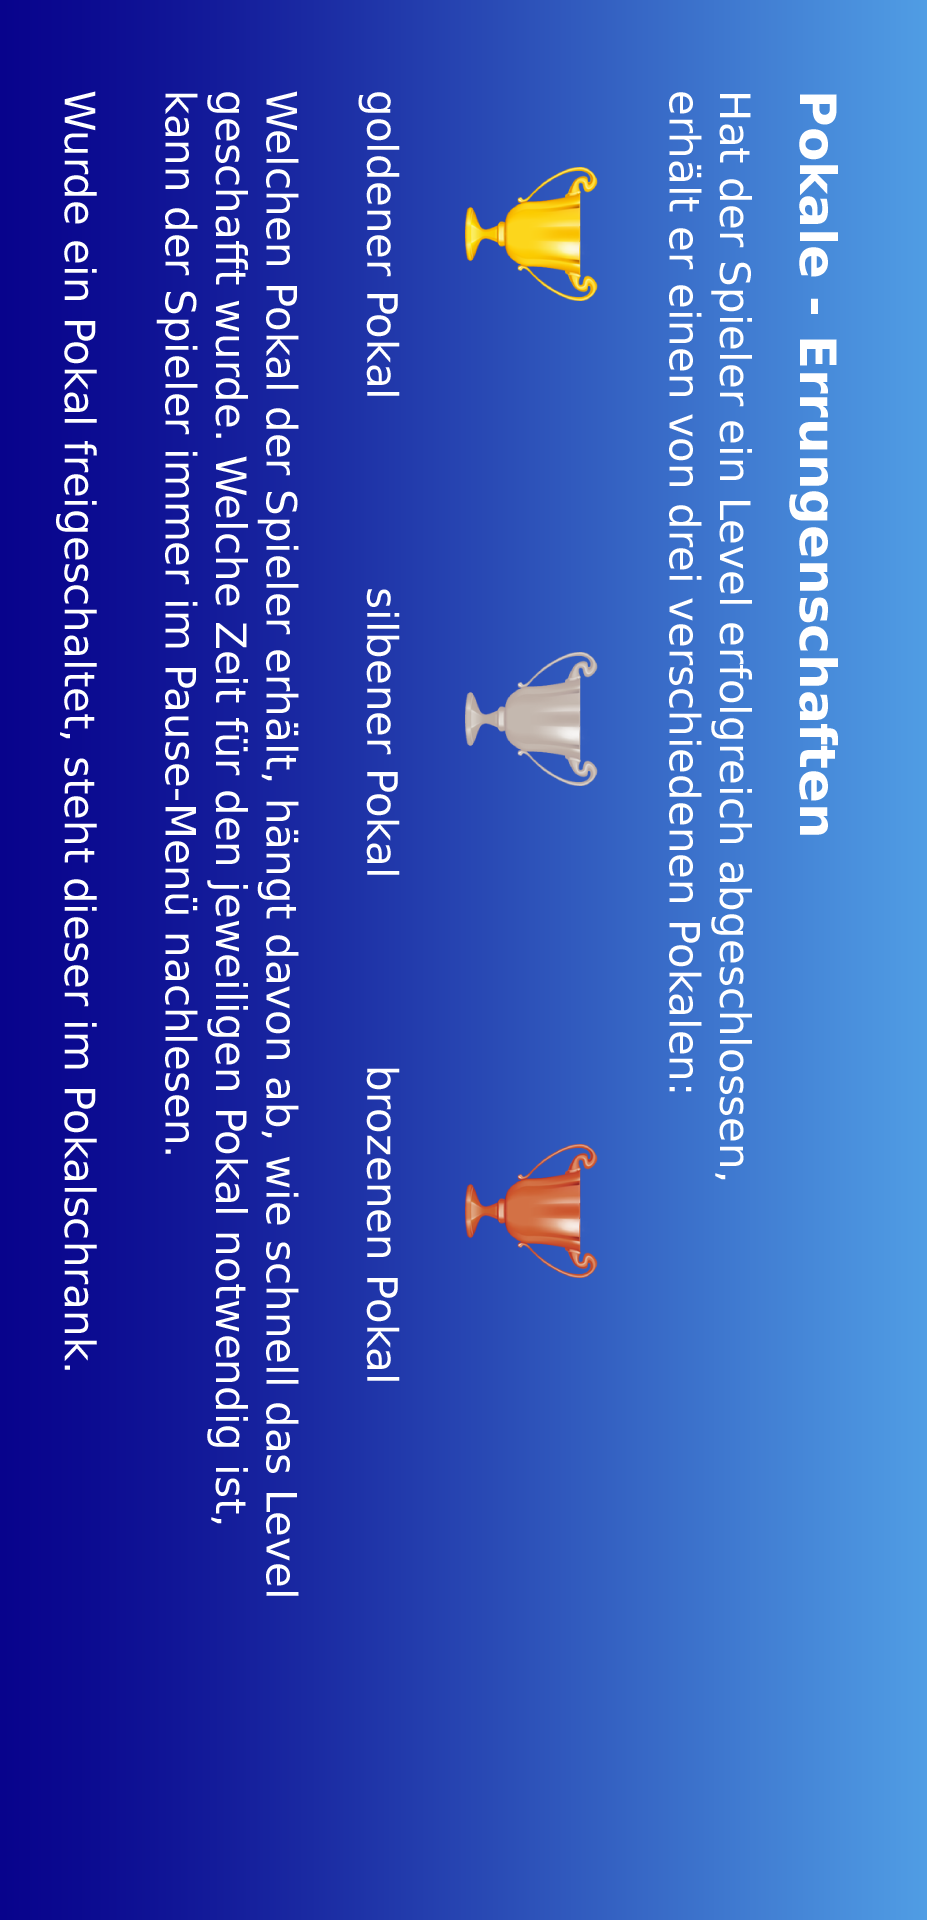
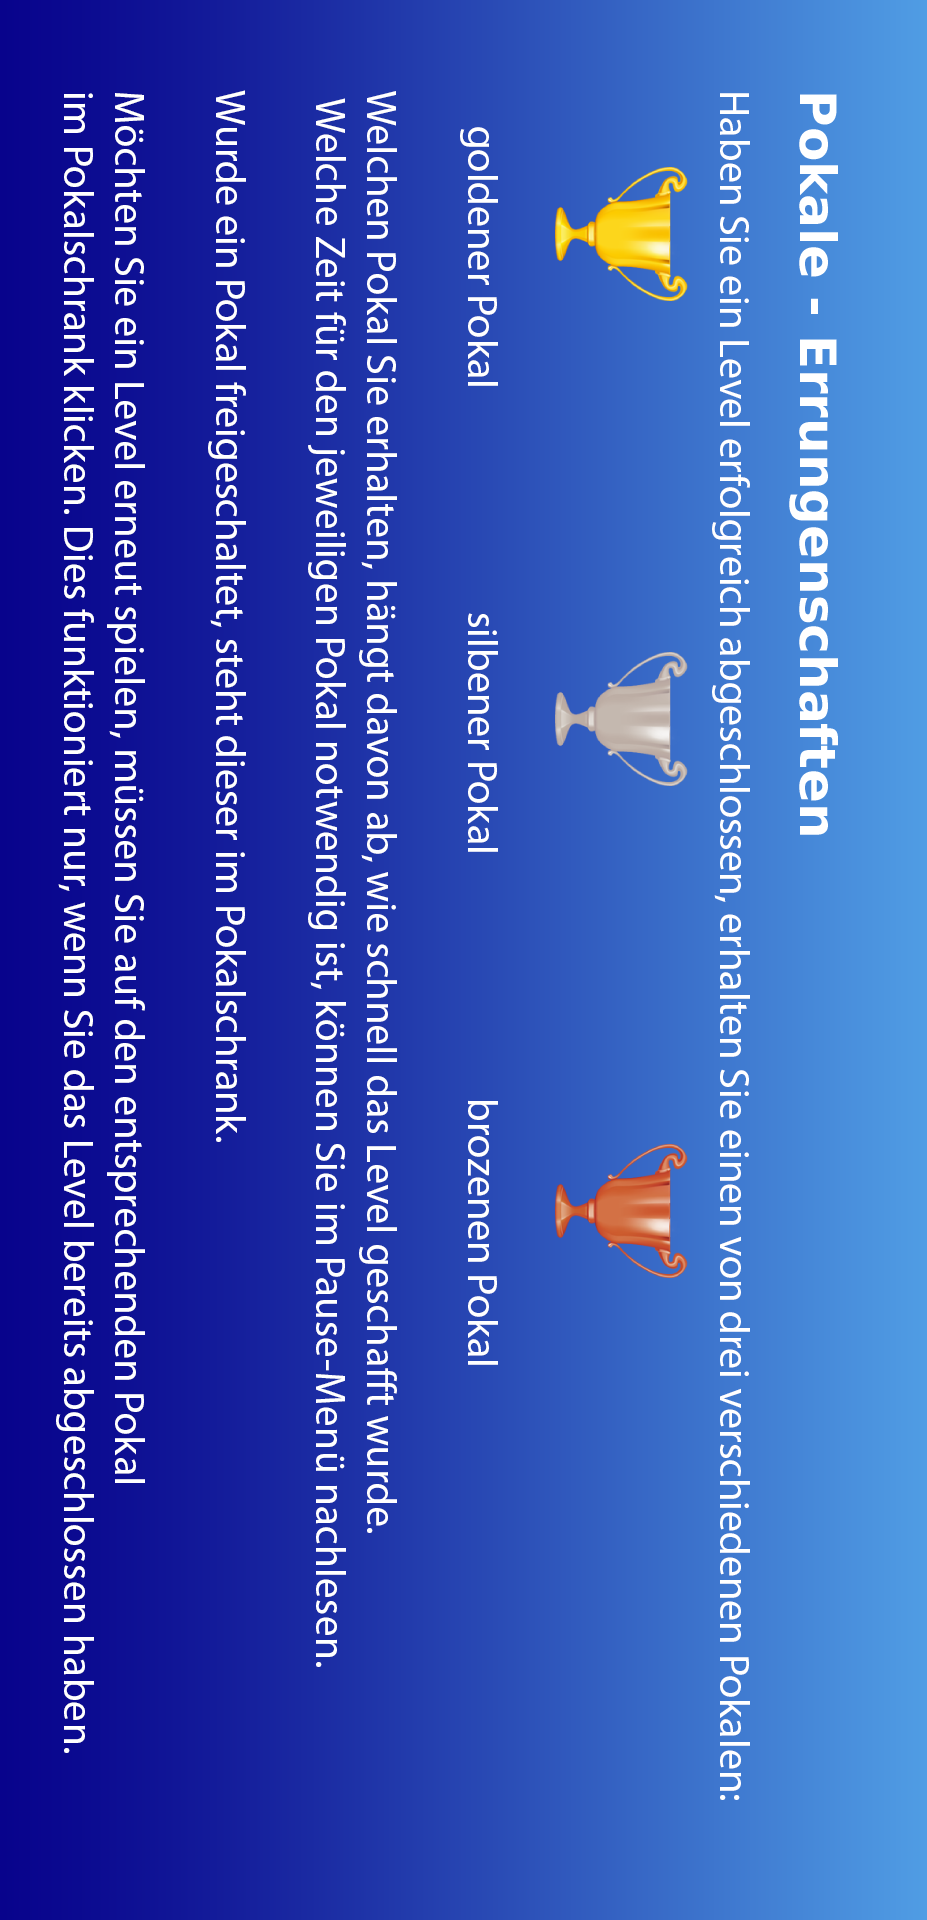
finish screen

Changed region(s): [[0.1812, 0.0312, 0.4229, 0.875], [0.4833, 0.0312, 0.8155, 0.9375], [0.0604, 0.0312, 0.151, 0.9062]]

diff --git a/Level12_hard.js b/Level12_hard.js
@@ -24,6 +24,8 @@ Game.Level12_hard.prototype = {
         //black fade
         this.camera.flash('#000000');
 
+        console.log(localStorage.getItem('finish'));
+
         //add wood for background
         this.game.add.tileSprite(0, 0, 1090, 1920, 'holz');
 
@@ -114,7 +116,7 @@ Game.Level12_hard.prototype = {
         ziel = game.add.sprite(this.game.width / 2 + 111, this.game.height - 59, 'ziel');
 		
         //add player
-        sprite = game.add.sprite(this.game.width / 2 - 59, 50, 'player');
+        sprite = game.add.sprite(this.game.width / 2 - 59, 1300, 'player');
 		sprite.inputEnabled = true;
 		sprite.input.enableDrag();
         sprite.anchor.set(0.5);
@@ -416,6 +418,21 @@ Game.Level12_hard.prototype = {
         }
         else if (this.checkOverlap(sprite, ziel))
 		{
+            if(localStorage.getItem('finish') == 0){
+                this.game.time.events.stop();
+                this.finishMessageBox(1512, 1050);
+                sprite.inputEnabled = false;
+                t++;
+
+                if (localStorage.getItem('level12_hard') === null) {
+                    //kein Highscore gespeicher
+                    localStorage.setItem('level12_hard', counter);
+                } else if (localStorage.getItem('level12_hard') > counter) {
+                    //neuer Highscore
+                    localStorage.setItem('level12_hard', counter);
+                }
+            }
+            else if (localStorage.getItem('finish') == 1){
             this.game.time.events.stop();
             this.doneMessageBox(1512, 1050);
             sprite.inputEnabled = false;
@@ -428,7 +445,9 @@ Game.Level12_hard.prototype = {
                 //neuer Highscore
                 localStorage.setItem('level12_hard', counter);
             }
+        }
 		}
+        
 		else
         {
             fail.visible = true;
@@ -534,7 +553,7 @@ Game.Level12_hard.prototype = {
         var style2 = {font:"50px Arial", align:"center", fill:"#ff0000", fontWeight:"bold"};
 
         var doneText1 = this.game.add.text(0, 0, "Du hast das Level geschafft!\nDeine Zeit: " + counter + " Sekunden", style);
-        var doneText2 = this.game.add.text(0, 0, "Highscore: "+ localStorage.getItem('level12_hard'), style2);
+        var doneText2 = this.game.add.text(0, 0, "Bestzeit: "+ localStorage.getItem('level12_hard') + " Sekunden", style2);
         
         //Set time for trophies
         var goldtime = 15;
@@ -728,6 +747,88 @@ wrongwayMessageBox(w = 1050, h = 1512) {
     }
 },
 
+finishMessageBox(w = 1050, h = 1512) {
+    //destroy messagebox already exists
+    if (this.msgBox) {
+        this.msgBox.destroy();
+    }
+
+    var msgBox = this.game.add.group();
+    var back = this.game.add.sprite(0, 0, "doneBackgroundgold");
+    var rightButton = this.game.add.sprite(0, 0, "buttonWeitergold");
+    
+    this.game.add.sprite(750, 300, "confetti1");
+    this.game.add.sprite(750, 1450, "confetti2");
+
+    //make a text field
+    var style = {font:"60px Arial", align:"center", fill:"#a67c00", fontWeight:"bold"};
+
+    var doneText1 = this.game.add.text(0, 0, "Du hast alle Level erfolgreich \nabgeschlossen!", style);
+    var doneText2 = this.game.add.text(0, 0,  "\n Deine Zeit: " + counter + " Sekunden", style);
+
+    //Set time for trophies
+    var goldtime = 15;
+    var silbertime = 30;
+
+    //show trophy
+    if (counter <= goldtime) {
+        //gold
+        var trophy = this.game.add.sprite(0, 0, "trophygold");
+        //var trophyText = this.game.add.text(0, 0, "Du hast den goldenen Pokal freigeschaltet!", style2);
+    }
+    else if (counter > goldtime && counter <= silbertime) {
+        //silber
+        var trophy = this.game.add.sprite(0, 0, "trophysilber");
+        //var trophyText = this.game.add.text(0, 0, "Du hast den silbernen Pokal freigeschaltet!", style2);
+    }
+    else {
+        //bronze
+        var trophy = this.game.add.sprite(0, 0, "trophybronze");
+        //var trophyText = this.game.add.text(0, 0, "Du hast den brozenen Pokal freigeschaltet!", style2);
+    }
+
+    doneText1.wordWrap = true;
+    doneText1.wordWrapWidth = w * .9;
+
+    doneText2.wordWrap = true;
+    doneText2.wordWrapWidth = w * .9;
+
+    back.width = w;
+    back.height = h;
+
+    //add elements to group
+    msgBox.add(back);
+    msgBox.add(rightButton);
+    msgBox.add(doneText1);
+    msgBox.add(doneText2);
+    msgBox.add(trophy);
+    msgBox.angle = 90;
+
+    //configurate rightButton
+    rightButton.x = back.width / 2 - 260;
+    rightButton.y = back.height - rightButton.height - 90;
+    rightButton.inputEnabled = true;
+    rightButton.events.onInputDown.add(this.loadHighscoresEvent, this);
+    
+    //set the message box in the center
+    msgBox.x = this.game.width / 2 + msgBox.height/2;
+    msgBox.y = this.game.height / 2 - msgBox.width / 2;
+
+    //set trophy
+    trophy.x = back.width / 2 - trophy.width / 2;
+    trophy.y = back.height / 2 - trophy.height / 2 - 10;
+    
+    doneText1.x = back.width / 2 - doneText1.width / 2;
+    doneText1.y = back.height / 2 - doneText1.height / 2 -200;
+    doneText2.x = back.width / 2 - doneText2.width / 2;
+    doneText2.y = back.height / 2 - doneText2.height / 2 + 100;
+   
+    this.msgBox = msgBox;
+
+    if(t==1) {
+        winsound.play();
+        }
+},
 	unpauseEvent() {
 		this.gamePlay();
         this.msgBox.destroy();
@@ -765,6 +866,17 @@ wrongwayMessageBox(w = 1050, h = 1512) {
         this.msgBox.destroy();
         clicksound.play();			
     },
+
+    loadHighscoresEvent() {
+		this.gamePlay();
+		this.state.start('Highscores');
+		counter = 0;
+        this.msgBox.destroy();
+        clicksound.play();
+        winsound.stop();
+        localStorage.setItem('finish', 1);		
+    },
+    
     
 }
 

diff --git a/Preloader.js b/Preloader.js
@@ -6,6 +6,10 @@ Game.Preloader = function(game){
 Game.Preloader.prototype = {
 	preload:function(){
 	
+		this.load.image("confetti1", "assets/trophies/confetti1.png");
+		this.load.image("confetti2", "assets/trophies/confetti2.png");
+
+
 		//backgrounds
 
 		this.load.image("background", "assets/backgrounds/background_mainmenu.png");
@@ -18,6 +22,7 @@ Game.Preloader.prototype = {
 		this.load.image("anleitung2", "assets/backgrounds/anleitung2.png");
 		this.load.image("pauseBackground", "assets/backgrounds/pause_background.png");
 		this.load.image("doneBackground", "assets/backgrounds/done_background.png");
+		this.load.image("doneBackgroundgold", "assets/backgrounds/done_background_gold.png");
 		this.load.image("gameoverBackground", "assets/backgrounds/gameover_background.png");
 
 		//trophies
@@ -102,6 +107,7 @@ Game.Preloader.prototype = {
 		//buttons
 		this.load.image("buttonHauptmenu", "assets/buttons/button_hauptmenu.png");
 		this.load.image("buttonWeiter", "assets/buttons/button_weiter.png");
+		this.load.image("buttonWeitergold", "assets/buttons/button_weiter_gold.png");
 		this.load.image("buttonStartgame", "assets/buttons/button_startgame.png");
 		this.load.image("buttonEinfachSmall", "assets/buttons/button_einfach_small.png");
 		this.load.image("buttonSchwerSmall", "assets/buttons/button_schwer_small.png");
@@ -128,8 +134,8 @@ Game.Preloader.prototype = {
 
 	create:function(){
 		//this.state.start('MainMenu');
-		this.state.start('Level12_easy');
-		//this.state.start('Level12_hard');
+		//this.state.start('Level12_easy');
+		this.state.start('Level12_hard');
 		
 	}
 };

diff --git a/Level10_hard.js b/Level10_hard.js
@@ -377,7 +377,7 @@ Game.Level10_hard.prototype = {
         var style2 = {font:"50px Arial", align:"center", fill:"#ff0000", fontWeight:"bold"};
 
         var doneText1 = this.game.add.text(0, 0, "Du hast das Level geschafft!\nDeine Zeit: " + counter + " Sekunden", style);
-        var doneText2 = this.game.add.text(0, 0, "Highscore: "+ localStorage.getItem('level10_hard'), style2);
+        var doneText2 = this.game.add.text(0, 0, "Bestzeit: "+ localStorage.getItem('level10_hard') + " Sekunden", style2);
         
         //set time for trophies
         var goldtime = 15;

diff --git a/Level11_hard.js b/Level11_hard.js
@@ -485,7 +485,7 @@ Game.Level11_hard.prototype = {
         var style2 = {font:"50px Arial", align:"center", fill:"#ff0000", fontWeight:"bold"};
 
         var doneText1 = this.game.add.text(0, 0, "Du hast das Level geschafft!\nDeine Zeit: " + counter + " Sekunden", style);
-        var doneText2 = this.game.add.text(0, 0, "Highscore: "+ localStorage.getItem('level11_hard'), style2);
+        var doneText2 = this.game.add.text(0, 0, "Bestzeit: "+ localStorage.getItem('level11_hard') + " Sekunden", style2);
         
         //Set time for trophies
         var goldtime = 15;

diff --git a/Level1_hard.js b/Level1_hard.js
@@ -224,7 +224,7 @@ Game.Level1_hard.prototype = {
         var style2 = {font:"50px Arial", align:"center", fill:"#ff0000", fontWeight:"bold"};
 
         var doneText1 = this.game.add.text(0, 0, "Du hast das Level geschafft!\nDeine Zeit: " + counter + " Sekunden", style);
-        var doneText2 = this.game.add.text(0, 0, "Highscore: "+ localStorage.getItem('level1_hard'), style2);
+        var doneText2 = this.game.add.text(0, 0, "Bestzeit: "+ localStorage.getItem('level1_hard') + " Sekunden", style2);
         
         //set time for trophies
         var goldtime = 15;

diff --git a/Level2_hard.js b/Level2_hard.js
@@ -271,7 +271,7 @@ Game.Level2_hard.prototype = {
         var style2 = {font:"50px Arial", align:"center", fill:"#ff0000", fontWeight:"bold"};
 
         var doneText1 = this.game.add.text(0, 0, "Du hast das Level geschafft!\nDeine Zeit: " + counter + " Sekunden", style);
-        var doneText2 = this.game.add.text(0, 0, "Highscore: "+ localStorage.getItem('level2_hard'), style2);
+        var doneText2 = this.game.add.text(0, 0, "Bestzeit: "+ localStorage.getItem('level2_hard') + " Sekunden", style2);
         
         //set time for trophies
         var goldtime = 15;

diff --git a/Level3_hard.js b/Level3_hard.js
@@ -307,7 +307,7 @@ Game.Level3_hard.prototype = {
         var style2 = {font:"50px Arial", align:"center", fill:"#ff0000", fontWeight:"bold"};
 
         var doneText1 = this.game.add.text(0, 0, "Du hast das Level geschafft!\nDeine Zeit: " + counter + " Sekunden", style);
-        var doneText2 = this.game.add.text(0, 0, "Highscore: "+ localStorage.getItem('level3_hard'), style2);
+        var doneText2 = this.game.add.text(0, 0, "Bestzeit: "+ localStorage.getItem('level3_hard') + " Sekunden", style2);
         
         //set time for trophies
         var goldtime = 15;

diff --git a/Level4_hard.js b/Level4_hard.js
@@ -295,7 +295,7 @@ Game.Level4_hard.prototype = {
         var style2 = {font:"50px Arial", align:"center", fill:"#ff0000", fontWeight:"bold"};
 
         var doneText1 = this.game.add.text(0, 0, "Du hast das Level geschafft!\nDeine Zeit: " + counter + " Sekunden", style);
-        var doneText2 = this.game.add.text(0, 0, "Highscore: "+ localStorage.getItem('level4_hard'), style2);
+        var doneText2 = this.game.add.text(0, 0, "Bestzeit: "+ localStorage.getItem('level4_hard') + " Sekunden", style2);
         
         //Set time for trophies
         var goldtime = 15;

diff --git a/Level5_hard.js b/Level5_hard.js
@@ -297,7 +297,7 @@ Game.Level5_hard.prototype = {
         var style2 = {font:"50px Arial", align:"center", fill:"#ff0000", fontWeight:"bold"};
 
         var doneText1 = this.game.add.text(0, 0, "Du hast das Level geschafft!\nDeine Zeit: " + counter + " Sekunden", style);
-        var doneText2 = this.game.add.text(0, 0, "Highscore: "+ localStorage.getItem('level5_hard'), style2);
+        var doneText2 = this.game.add.text(0, 0, "Bestzeit: "+ localStorage.getItem('level5_hard') + " Sekunden", style2);
         
         //Set time for trophies
         var goldtime = 15;

diff --git a/Level6_hard.js b/Level6_hard.js
@@ -335,7 +335,7 @@ Game.Level6_hard.prototype = {
         var style2 = {font:"50px Arial", align:"center", fill:"#ff0000", fontWeight:"bold"};
 
         var doneText1 = this.game.add.text(0, 0, "Du hast das Level geschafft!\nDeine Zeit: " + counter + " Sekunden", style);
-        var doneText2 = this.game.add.text(0, 0, "Highscore: "+ localStorage.getItem('level6_hard'), style2);
+        var doneText2 = this.game.add.text(0, 0, "Bestzeit: "+ localStorage.getItem('level6_hard') + " Sekunden", style2);
         
         //set time for trophies
         var goldtime = 15;

diff --git a/Level7_hard.js b/Level7_hard.js
@@ -301,7 +301,7 @@ Game.Level7_hard.prototype = {
         var style2 = {font:"50px Arial", align:"center", fill:"#ff0000", fontWeight:"bold"};
 
         var doneText1 = this.game.add.text(0, 0, "Du hast das Level geschafft!\nDeine Zeit: " + counter + " Sekunden", style);
-        var doneText2 = this.game.add.text(0, 0, "Highscore: "+ localStorage.getItem('level7_hard'), style2);
+        var doneText2 = this.game.add.text(0, 0, "Bestzeit: "+ localStorage.getItem('level7_hard') + " Sekunden", style2);
         
         //Set time for trophies
         var goldtime = 15;

diff --git a/Level8_hard.js b/Level8_hard.js
@@ -320,7 +320,7 @@ Game.Level8_hard.prototype = {
         var style2 = {font:"50px Arial", align:"center", fill:"#ff0000", fontWeight:"bold"};
 
         var doneText1 = this.game.add.text(0, 0, "Du hast das Level geschafft!\nDeine Zeit: " + counter + " Sekunden", style);
-        var doneText2 = this.game.add.text(0, 0, "Highscore: "+ localStorage.getItem('level8_hard'), style2);
+        var doneText2 = this.game.add.text(0, 0, "Bestzeit: "+ localStorage.getItem('level8_hard') + " Sekunden", style2);
         
         //set time for trophies
         var goldtime = 15;
